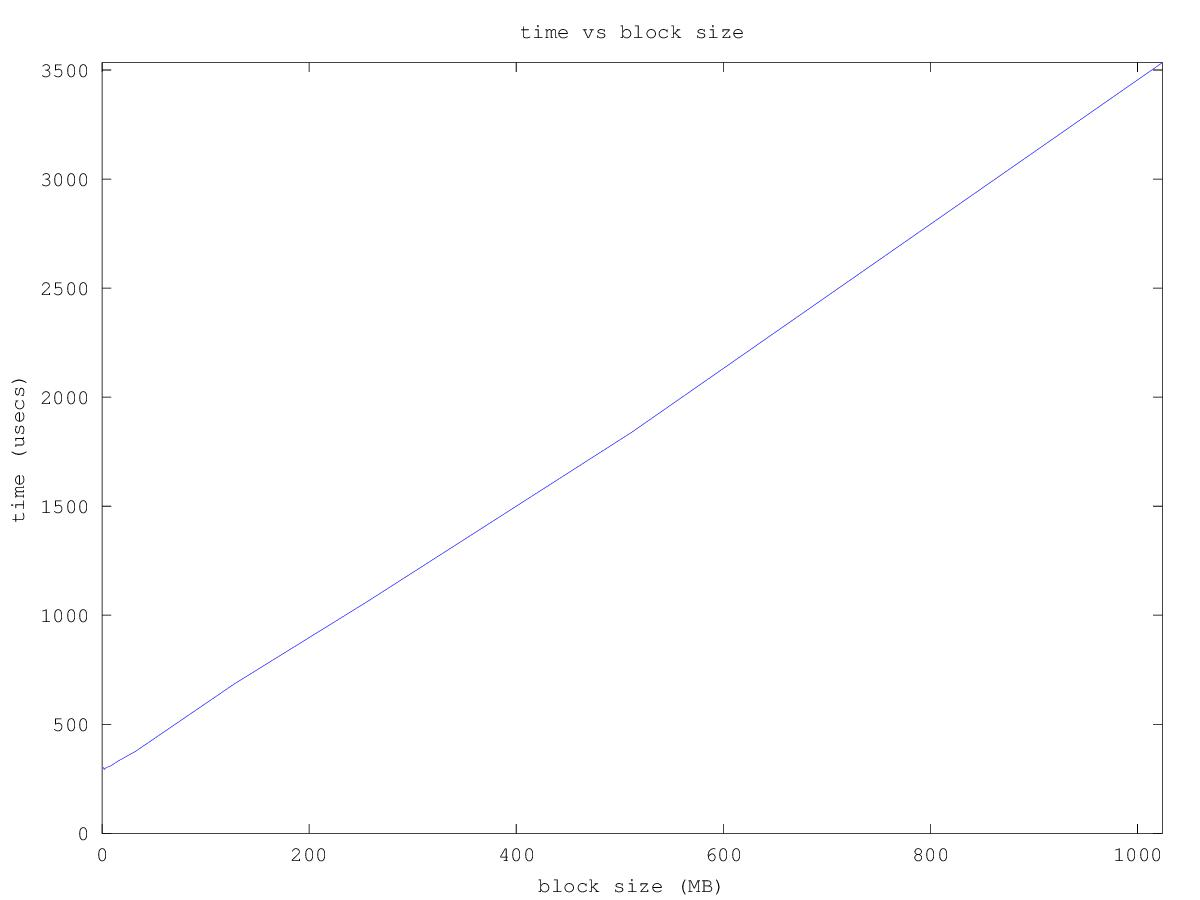
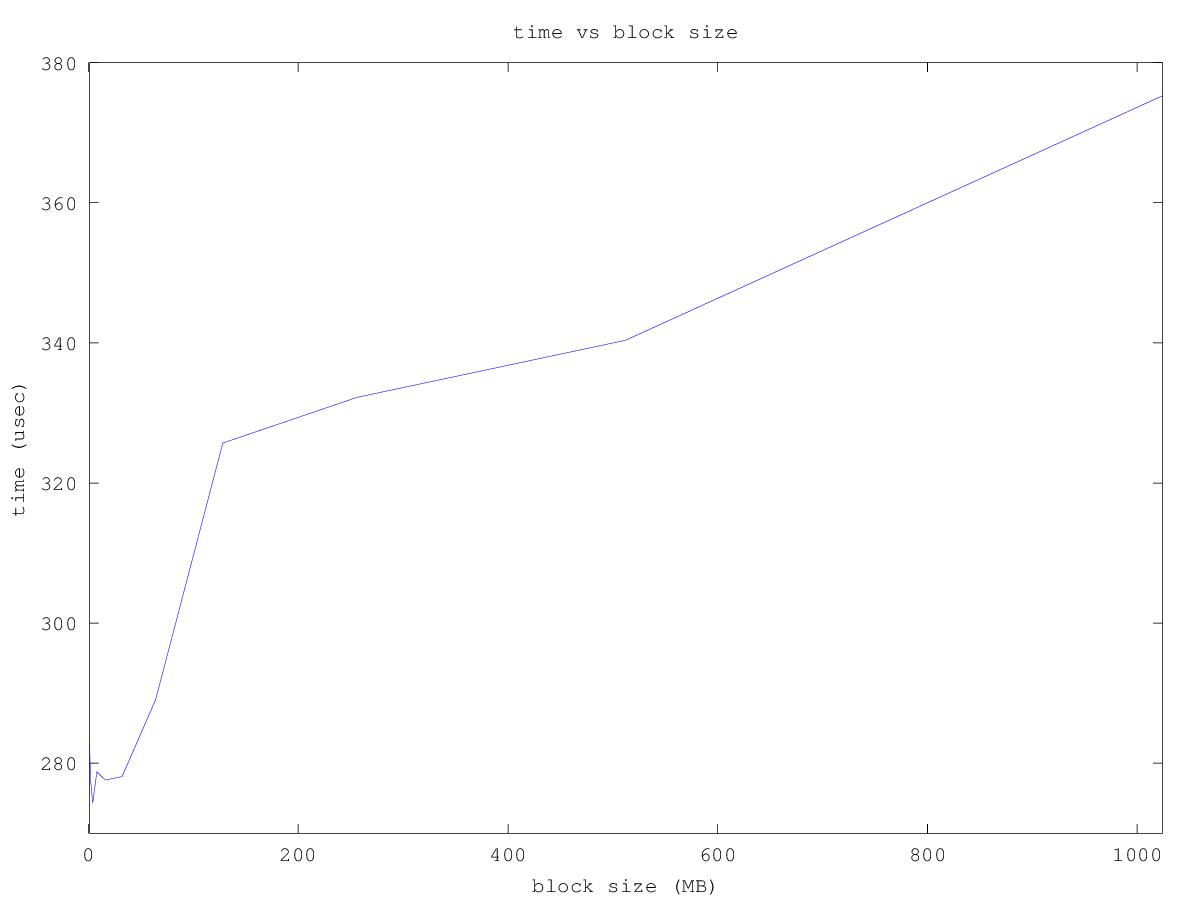
Fix timer for part2

diff --git a/hw_01/part2.c b/hw_01/part2.c
@@ -18,12 +18,12 @@ int main(int argc, char** argv)
   unsigned long block_size_B = block_size_MB * 1000; // convert from MB to B
 
   for (int i = 0; i < num_iters; i++) {
-    timer_start();
 
     // allocate memory for arr and initialize to 'a'
     char *arr = malloc(block_size_B);
     for (int j = 0; j < block_size_B; j++) { arr[j] = 'a'; }
 
+    timer_start();
     int pid = fork();
     if (pid == 0) {
       // child

diff --git a/hw_01/hw_01.md b/hw_01/hw_01.md
@@ -1,0 +1,8 @@
+# Part 2 
+## Cost of fork()
+
+Usage: `./part2 <size-in-MB>`
+
+The program `./part2` loops 10,000 times to compute the average cost of a `fork()` call. In each loop, an array of `<size-in-MB>` MB is allocated and initialized and then a timer is started. `fork()` is called and the parent waits for the child using `waitpid()`. Once the child returns, the timer is stopped and the parent records the time of this `fork()` call in usecs. The following is a chart of the results:
+
+![image](file:///Users/alextang/Code/RU/operating_systems/hw_01/part2.jpg =600x)
